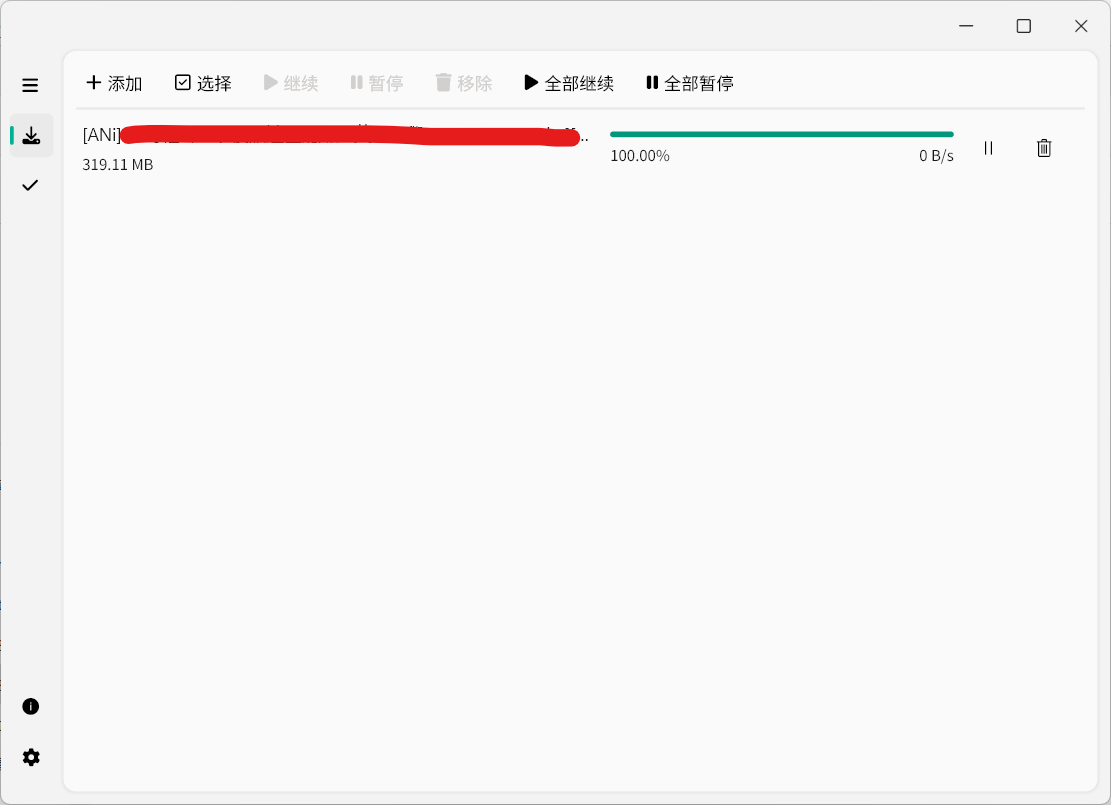
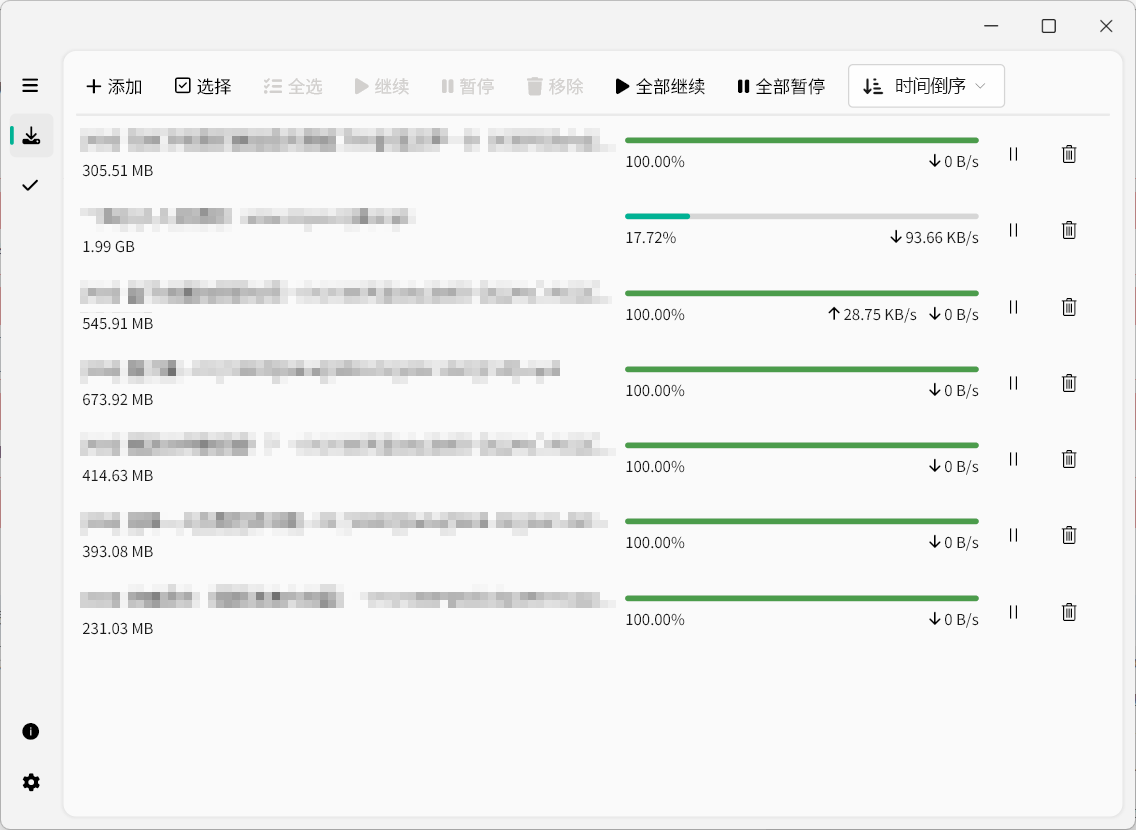
更新readme

diff --git a/README.md b/README.md
@@ -31,11 +31,15 @@
 
 ## 更新日志
 
-### 0.1.5
-- 修复工具栏的一个问题
+### 0.1.6
+- 添加显示上传速度
+- 修复一个保存设置的问题
 
 <details>
 <summary>过去的版本</summary>
+
+### 0.1.5
+- 修复工具栏的一个问题
 
 ### 0.1.4
 - 添加ratio设置
